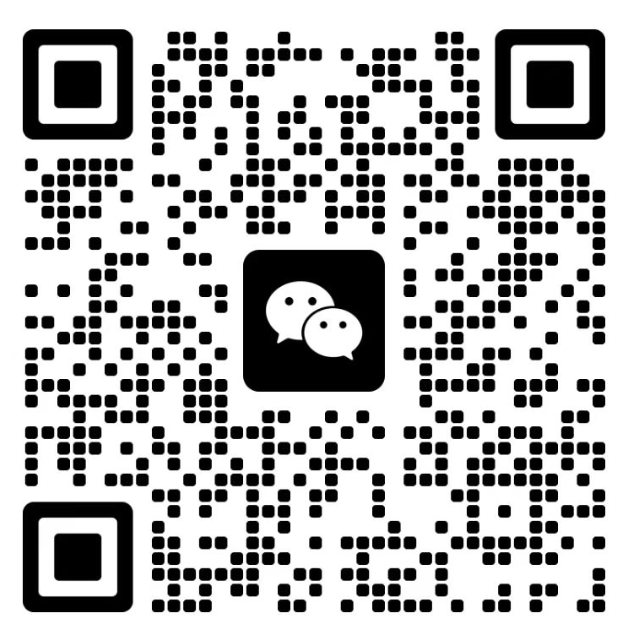
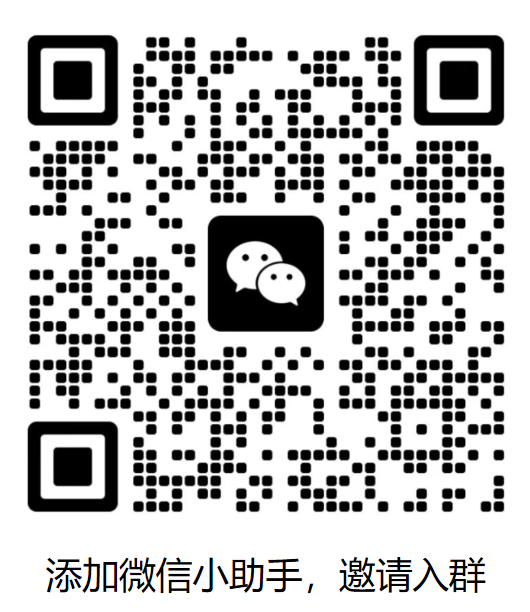
update images

diff --git a/README.md b/README.md
@@ -81,18 +81,7 @@
 
 ## 交流
 
-<div style="display: flex; align-items: flex-start; gap: 20px; width: 100%; overflow-x: auto; padding: 10px 0;">
-  <div style="flex: 0 0 350px; text-align: center;">
-    <img src="./images/wechat_assistant.png" 
-         alt="wechat-assistant"
-         style="width: 40%; height: auto; border-radius: 4px; border: 1px solid #eee;">
-    <p style="margin: 8px 0 0 0; font-size: 14px;line-height: 1.5;">添加微信小助手，邀请进群</p>
-  </div>
-
-  <div style="flex: 0 0 350px; text-align: center;">
-    <img src="./images/qq_group_chat.png" 
-         alt="qq-group-chat" 
-         style="width: 40%; height: auto; border-radius: 4px; border: 1px solid #eee;">
-    <p style="margin: 8px 0 0 0; font-size: 14px; line-height: 1.5;">QQ交流群</p>
-  </div>
+<div align=center>
+<img alt="wechat-assistant" src="./images/wechat_assistant.png" width="40%">
+<img alt="qq-group-chat" src="./images/qq_group_chat.png" width="40%">
 </div>
